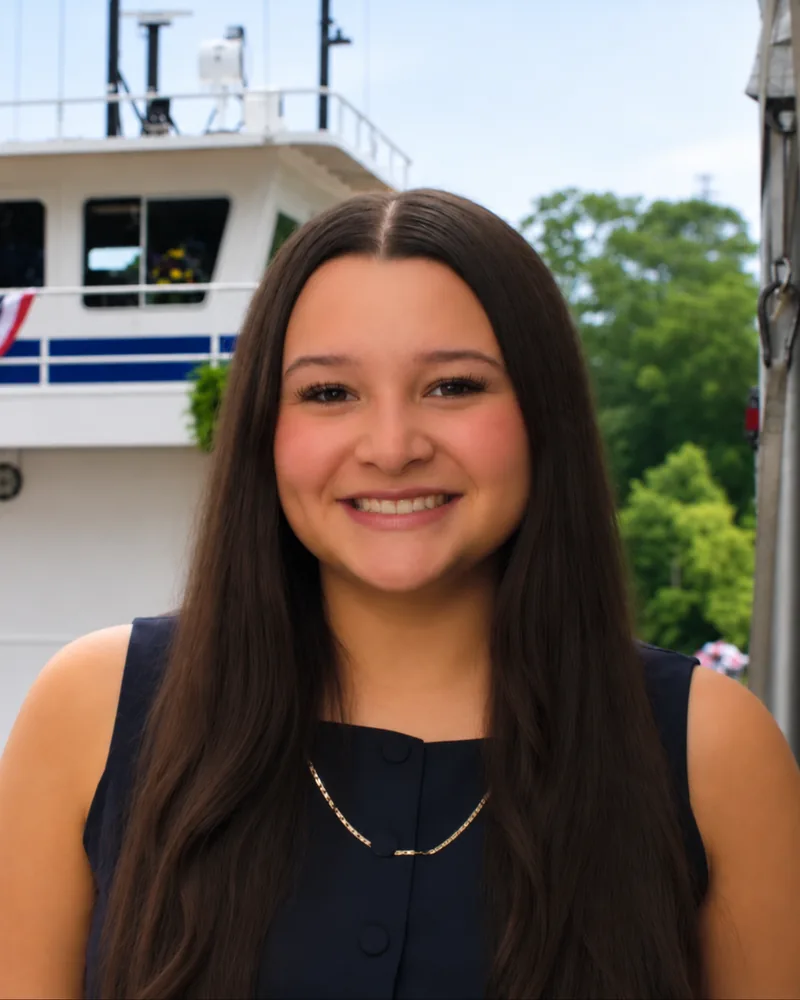
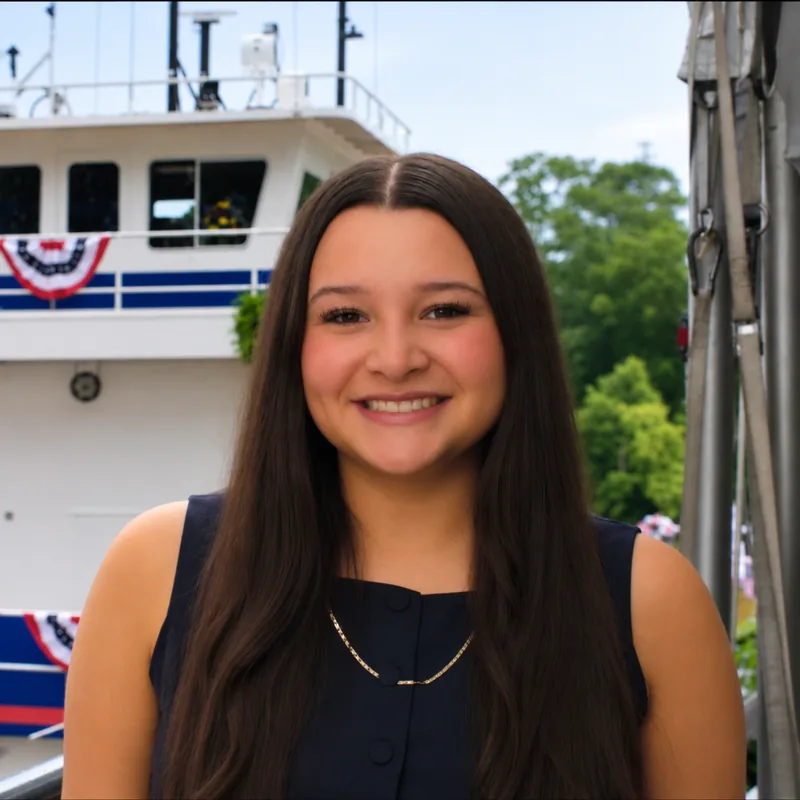
Show María's whole photo, boat included
Claude-Session: https://claude.ai/code/session_01GpGpBTmoGn8bS7CZ4poFxu

diff --git a/index.html b/index.html
@@ -338,7 +338,7 @@
       </article>
       <article class="tag">
         <p class="tag-top" aria-hidden="true">Hello, I'm</p>
-        <img class="tag-photo" src="assets/people/maria-800.webp" width="800" height="1000" alt="María Estrada, smiling, outdoors with trees behind her">
+        <img class="tag-photo" src="assets/people/maria-800.webp" width="800" height="800" alt="María Estrada, smiling, in front of a white riverboat and trees">
         <div class="tag-body">
           <p class="tag-name">María</p>
           <p class="tag-full">María Estrada</p>
